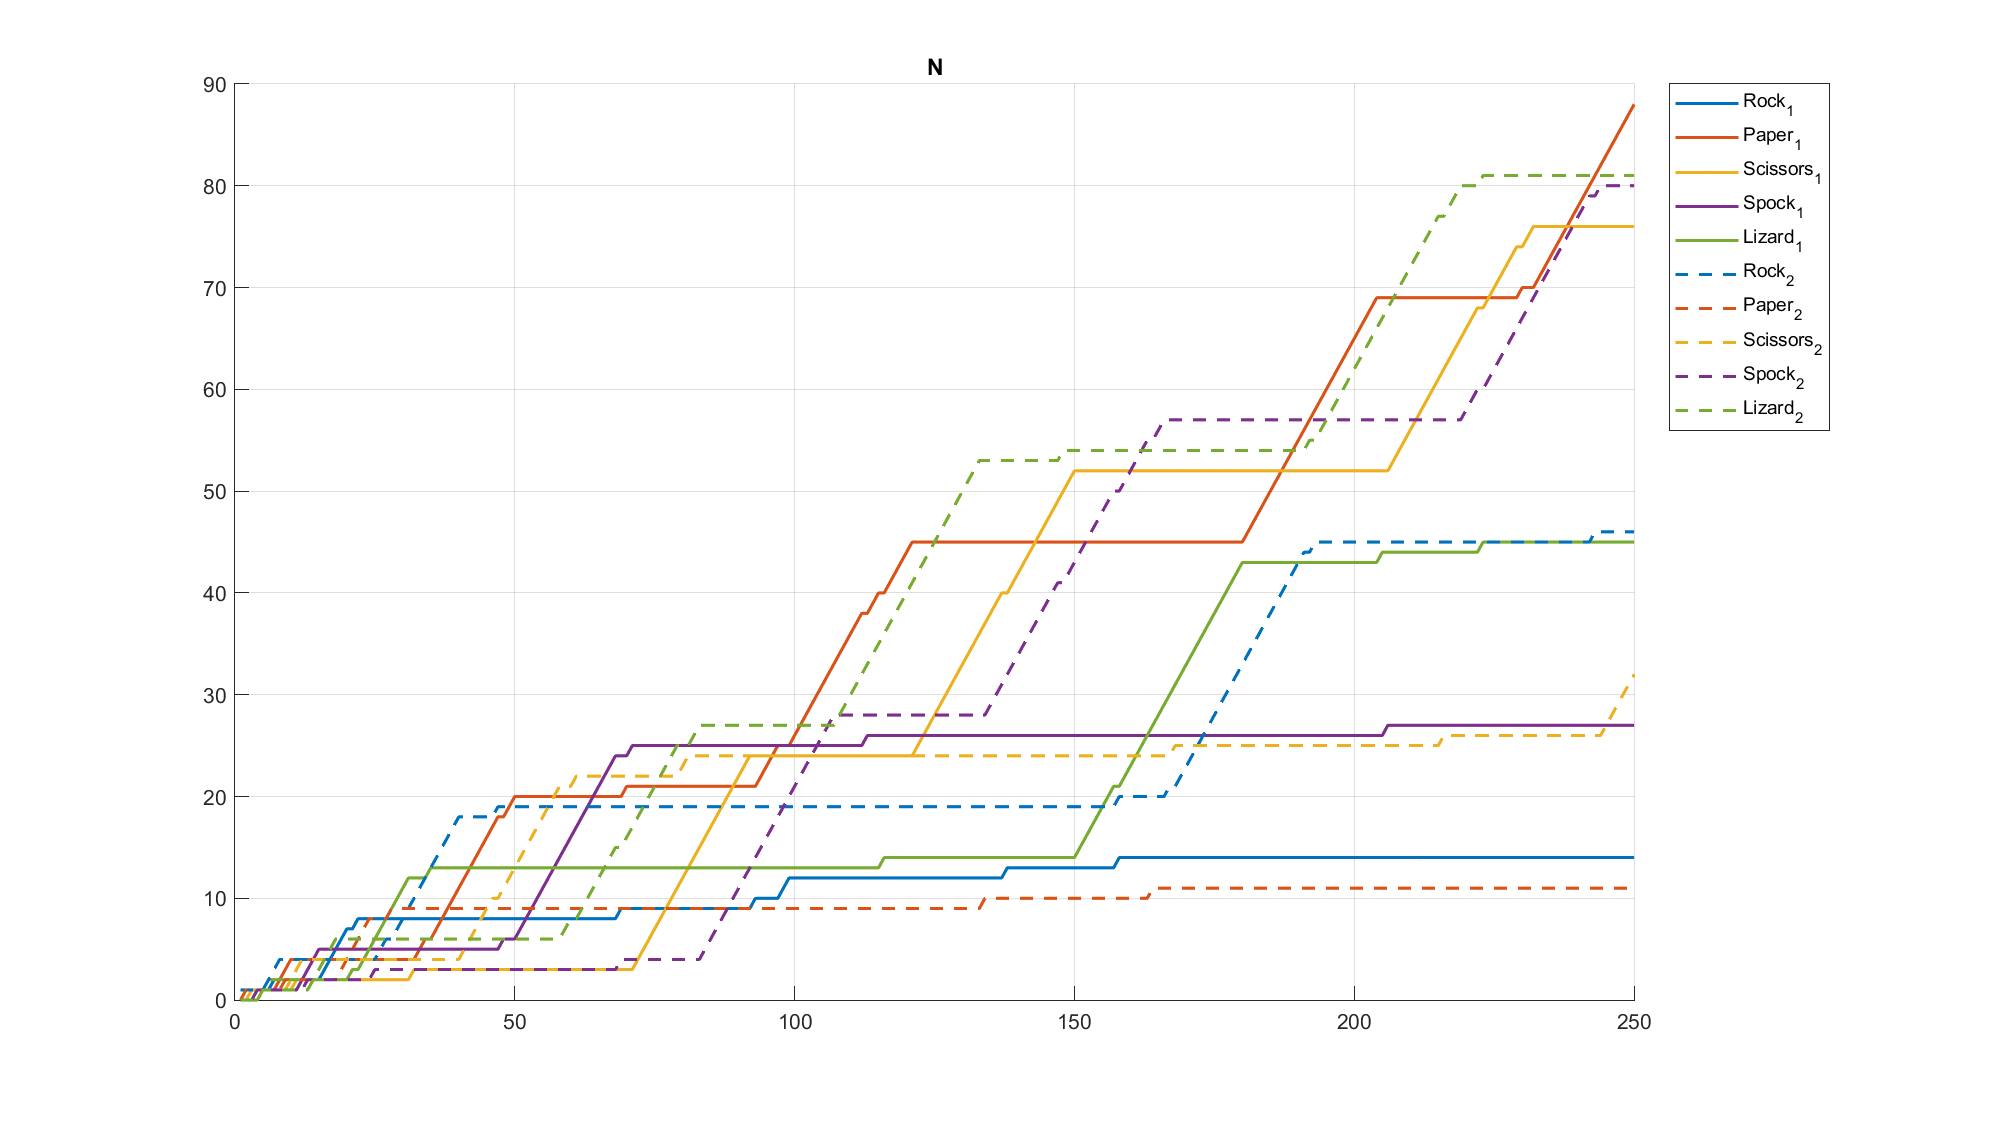
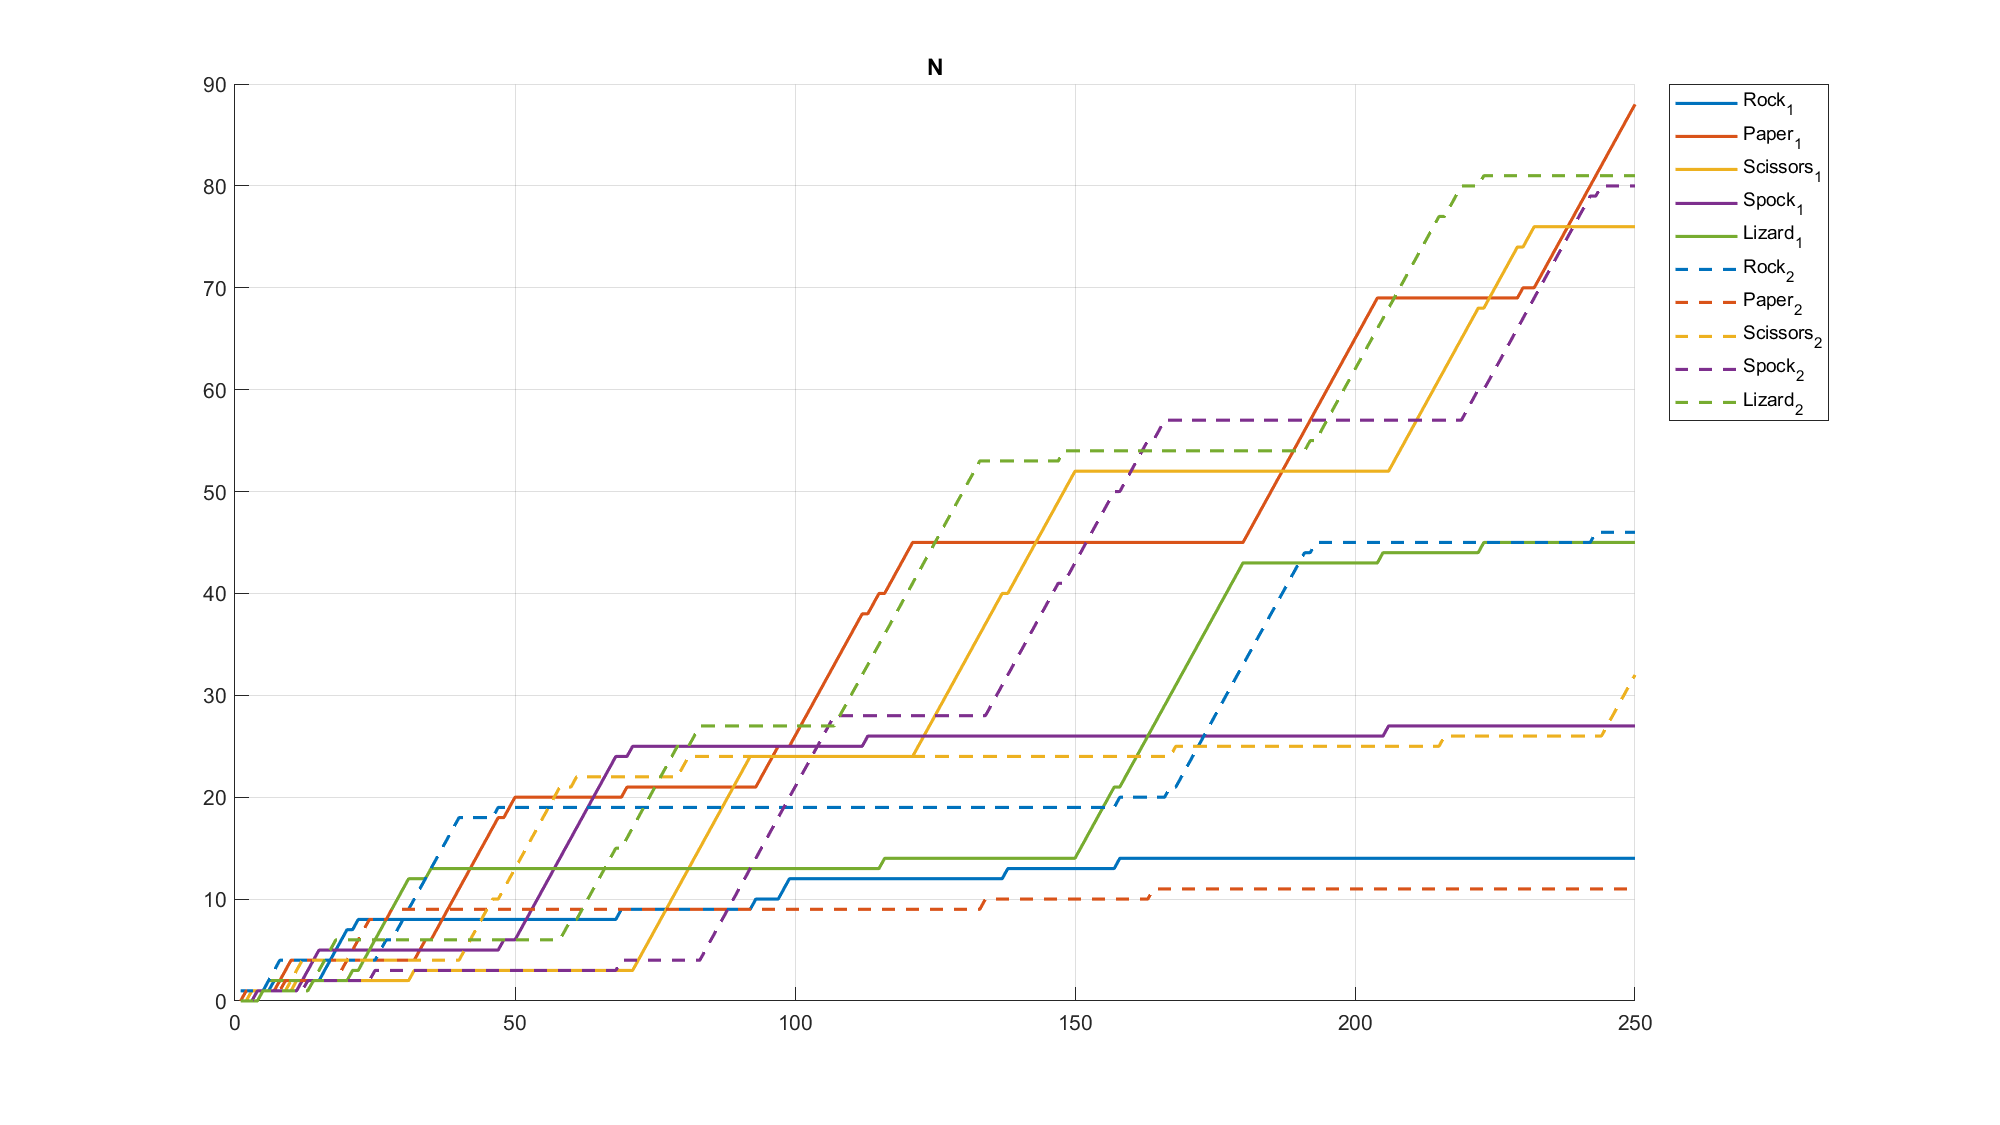
Beautify graphs for some agent fight

diff --git a/rel1/agents_fights/UCB_vs_UCB.m b/rel1/agents_fights/UCB_vs_UCB.m
@@ -8,24 +8,21 @@ rng(42) % set the random seed
 A = 5; % dimension action space
 c = 10; % exploration rate
 lengthEpisode = 1000; % number of actions to take
-historyWD = zeros(1, lengthEpisode);
-WD = 0; % draws
+historyW = zeros(3, lengthEpisode); % history of match result
+W = [0,0,0]; % counter for [agent 1 win, agent 2 win, draws]
+
 
 %-------------Initialization for the first agent-------------------
 Q1 = ones(A, 1); % estimate of the value of actions
 N1 = zeros(A, 1); % number of times we take each action
 historyQ1 = zeros(A, lengthEpisode); % save history of Q
 historyN1 = zeros(A, lengthEpisode); % save history of N
-historyW1 = zeros(1, lengthEpisode);
-W1 = 0; % win counter for agent 1
 
 %-------------Initialization for the second agent-------------------
 Q2 = ones(A, 1); % estimate of the value of actions
 N2 = zeros(A, 1); % number of times we take each action
 historyQ2 = zeros(A, lengthEpisode); % save history of Q
 historyN2 = zeros(A, lengthEpisode); % save history of N
-historyW2 = zeros(1, lengthEpisode);
-W2 = 0; % win counter for agent 2
 
 for i = 1:lengthEpisode
     
@@ -58,56 +55,73 @@ for i = 1:lengthEpisode
     %----------------save the history for the second agent-----------------
     historyQ2(:, i) = Q2;
     historyN2(:, i) = N2;
-
-    % update W
+    
+    % ---------Update match result history---------------------
     if r1 == 1
-        W1 = W1 + 1;
+        W = W + [1, 0, 0];
     elseif r1 == -1
-        W2 = W2 + 1;
+        W = W + [0, 1, 0];
     else
-        WD = WD + 1;
+        W = W + [0, 0, 1];
     end
-
-    % save the history
-    historyW1(:, i) = W1;
-    historyW2(:, i) = W2;
-    historyWD(:, i) = WD; % for draws
+    historyW(:,i) = W;
+    %-------------------------------------------------
 
 end
 
 %% plots
 
-% plot the history of Q for the first agent
-figure()
-plot(historyQ1','LineWidth',2)
-legend('Rock', 'Paper', 'Scissors', 'Spock', 'Lizard')
-ylabel("Q1")
-
-% plot the history of N for the first agent
-figure()
-plot(historyN1','LineWidth',2)
-legend('Rock', 'Paper', 'Scissors', 'Spock', 'Lizard')
-ylabel("N1")
-
-
-% plot the history of Q for the second agent
-figure()
-plot(historyQ2','LineWidth',2)
-legend('Rock', 'Paper', 'Scissors', 'Spock', 'Lizard')
-ylabel("Q2")
-
-% plot the history of N for the second agent
-figure()
-plot(historyN2','LineWidth',2)
-legend('Rock', 'Paper', 'Scissors', 'Spock', 'Lizard')
-ylabel("N2")
-
-% plot the history for W
-figure()
+%-----------------plot the history of N------------------------------------
+% Fixed
+figure('Position', [0 0 1280 720])
 hold on
-plot(historyW1', 'LineWidth', 2)
-plot(historyW2', 'LineWidth', 2, 'LineStyle','--')
-plot(historyWD', 'LineWidth', 2, 'LineStyle',':')
+% Graph content
+title('N')
+plot(historyN1', 'LineWidth', 1.5)
+plot(historyN2', 'LineWidth', 1.5, 'LineStyle','--')
+lgn = legend('Rock_1', 'Paper_1', 'Scissors_1', 'Spock_1', 'Lizard_1', 'Rock_2', 'Paper_2', 'Scissors_2', 'Spock_2', 'Lizard_2');
+set(gca, 'ColorOrder', colors(5))
+% Fixed
+grid on
+lgn.Location = 'northeastoutside';
 hold off
-legend('W_1', 'W_2', 'W_D')
+% Save graph
+saveas(gcf, "graphs/UCB_vs_UCB/N", "png")
+%--------------------------------------------------------------------------
+
+%-----------------plot the history of Q------------------------------------
+% Fixed
+figure('Position', [0 0 1280 720])
+hold on
+% Graph content
+title('Q')
+plot(historyQ1', 'LineWidth', 1.5)
+plot(historyQ2', 'LineWidth', 1.5, 'LineStyle','--')
+lgn = legend('Rock_1', 'Paper_1', 'Scissors_1', 'Spock_1', 'Lizard_1', 'Rock_2', 'Paper_2', 'Scissors_2', 'Spock_2', 'Lizard_2');
+set(gca, 'ColorOrder', colors(5))
+% Fixed
+grid on
+lgn.Location = 'northeastoutside';
+hold off
+% Save graph
+saveas(gcf, "graphs/UCB_vs_UCB/Q", "png")
+%--------------------------------------------------------------------------
+
+%-----------------plot the history of W------------------------------------
+% Fixed
+figure('Position', [0 0 1280 720])
+hold on
+% Graph content
 title('W')
+plot(historyW(1,:)', 'LineWidth', 1.5)
+plot(historyW(2,:)', 'LineWidth', 1.5, 'LineStyle','--')
+plot(historyW(3,:)', 'LineWidth', 1.5, 'LineStyle',':')
+lgn = legend('Wins_1', 'Wins_2', 'Draws');
+set(gca, 'ColorOrder', colors(3))
+% Fixed
+grid on
+lgn.Location = 'northeastoutside';
+hold off
+% Save
+saveas(gcf, "graphs/UCB_vs_UCB/W", "png")
+%--------------------------------------------------------------------------

diff --git a/rel1/agents_fights/preference_vs_preference.m b/rel1/agents_fights/preference_vs_preference.m
@@ -9,24 +9,19 @@ A = 5; % dimension action space
 alpha = 1e-2; % update step for preferences
 beta = 1e-1; % update step for rewards
 lengthEpisode = 20000; % number of actions to take
-WD = 0; % draws
-historyWD = zeros(1, lengthEpisode);
+historyW = zeros(3, lengthEpisode); % history of match result
+W = [0,0,0]; % counter for [agent 1 win, agent 2 win, draws]
 
 
 %-------Initializzation for the first agent--------------------------
 H1 = zeros(A, 1); % preferences of actions
 avg_r1 = 0; % initialization of average reward 
 historyH1 = zeros(A, lengthEpisode); % save history of H
-historyW1 = zeros(1, lengthEpisode);
-W1 = 0; % win counter for agent 1
 
 %-------Initializzation for the second agent--------------------------
 H2 = zeros(A, 1); % preferences of actions
 avg_r2 = 0; % initialization of average reward 
 historyH2 = zeros(A, lengthEpisode); % save history of H
-historyW2 = zeros(1, lengthEpisode);
-W2 = 0; % win counter for agent 2
-
 
 for i = 1:lengthEpisode
 
@@ -66,42 +61,55 @@ for i = 1:lengthEpisode
     % save the history for the first agent
     historyH2(:,i) = H2;
 
-    % update W
+    % ---------Update match result history---------------------
     if r1 == 1
-        W1 = W1 + 1;
+        W = W + [1, 0, 0];
     elseif r1 == -1
-        W2 = W2 + 1;
+        W = W + [0, 1, 0];
     else
-        WD = WD + 1;
+        W = W + [0, 0, 1];
     end
+    historyW(:,i) = W;
+    %-------------------------------------------------
 
-    % save the history
-    historyW1(:, i) = W1;
-    historyW2(:, i) = W2;
-    historyWD(:, i) = WD; % for draws
-    
 end
 
 %% plots
 
-% plot the history of H1
-figure()
-plot(historyH1','LineWidth',2)
-ylabel("H1")
-legend('Rock', 'Paper', 'Scissors', 'Spock', 'Lizard')
-
-% plot the history of H2
-figure()
-plot(historyH2','LineWidth',2)
-ylabel("H2")
-legend('Rock', 'Paper', 'Scissors', 'Spock', 'Lizard')
-
-figure()
+%-----------------plot the history of H1 e H2 -----------------------------
+% Fixed
+figure('Position', [0 0 1280 720])
 hold on
-plot(historyW1', 'LineWidth', 2)
-plot(historyW2', 'LineWidth', 2, 'LineStyle','--')
-plot(historyWD', 'LineWidth', 2, 'LineStyle',':')
+% Graph content
+title('N')
+plot(historyH1', 'LineWidth', 1.5)
+plot(historyH2', 'LineWidth', 1.5, 'LineStyle','--')
+lgn = legend('Rock_1', 'Paper_1', 'Scissors_1', 'Spock_1', 'Lizard_1', 'Rock_2', 'Paper_2', 'Scissors_2', 'Spock_2', 'Lizard_2');
+set(gca, 'ColorOrder', colors(5))
+% Fixed
+grid on
+lgn.Location = 'northeastoutside';
 hold off
-legend('W_1', 'W_2', 'W_D')
+% Save graph
+saveas(gcf, "graphs/pref_vs_pref/H", "png")
+%--------------------------------------------------------------------------
+
+%-----------------plot the history of W------------------------------------
+% Fixed
+figure('Position', [0 0 1280 720])
+hold on
+% Graph content
 title('W')
+plot(historyW(1,:)', 'LineWidth', 1.5)
+plot(historyW(2,:)', 'LineWidth', 1.5, 'LineStyle','--')
+plot(historyW(3,:)', 'LineWidth', 1.5, 'LineStyle',':')
+lgn = legend('Wins_1', 'Wins_2', 'Draws');
+set(gca, 'ColorOrder', colors(3))
+% Fixed
+grid on
+lgn.Location = 'northeastoutside';
+hold off
+% Save
+saveas(gcf, "graphs/pref_vs_pref/W", "png")
+%--------------------------------------------------------------------------
 
